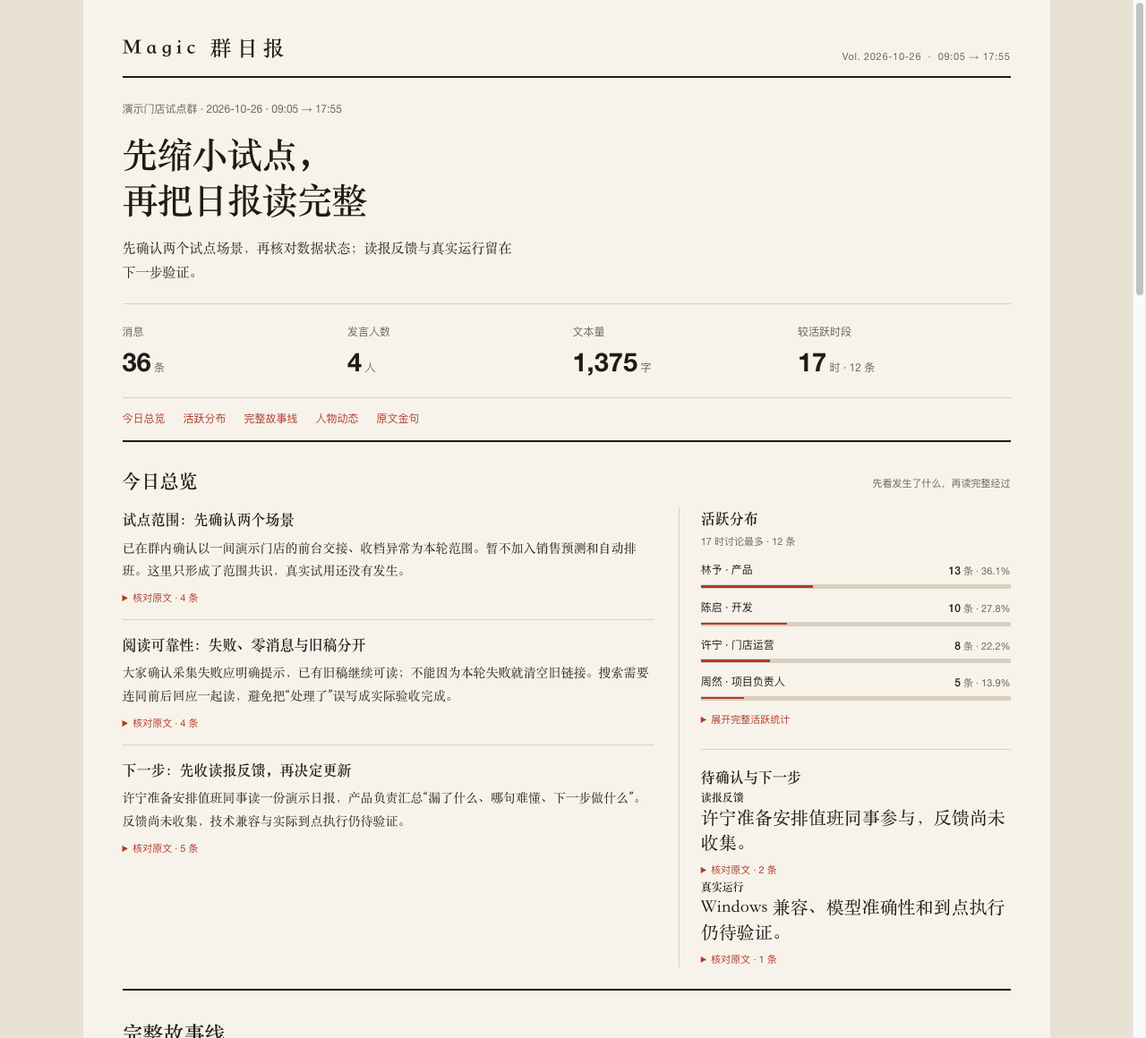
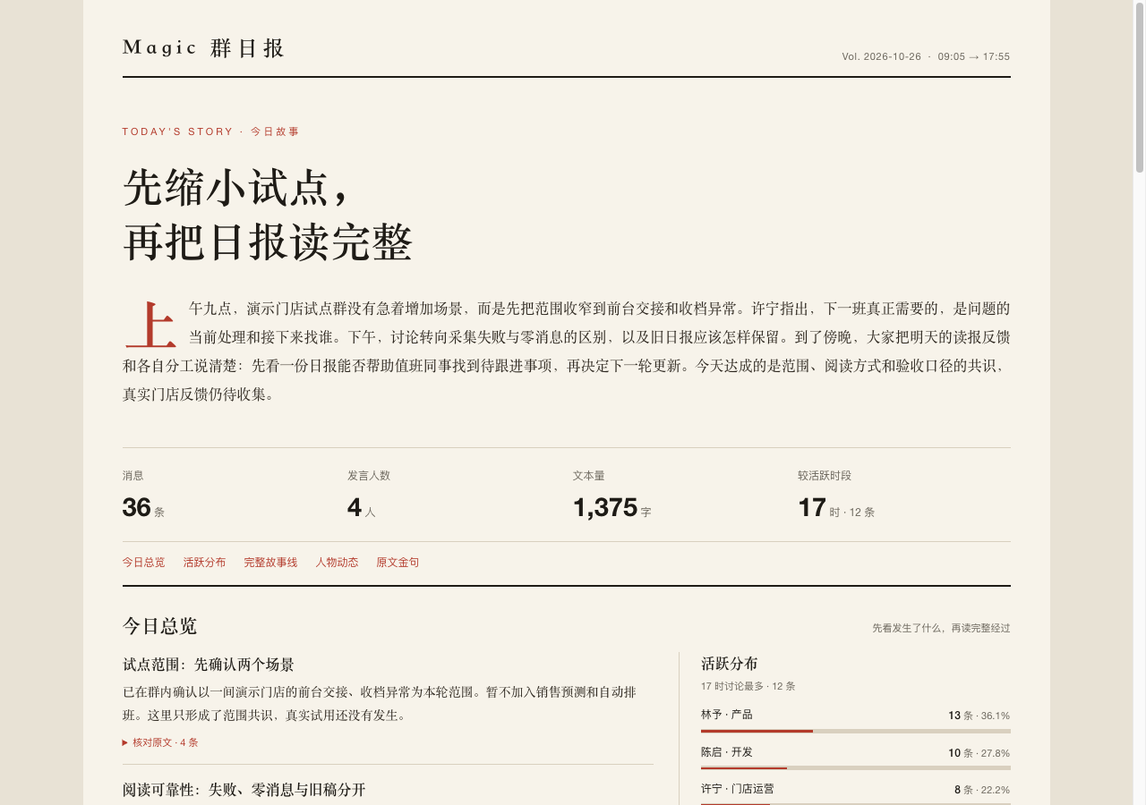
release: restore the approved story opening in rc.8

Changed region(s): [[0.0938, 0.0311, 0.9062, 1.0], [0.9688, 0.2178, 1.0, 0.28], [0.5, 0.7467, 0.5312, 0.7778]]

diff --git a/outputs/version-comparison-2026-10-27/pages/after-report.html b/outputs/version-comparison-2026-10-27/pages/after-report.html
@@ -63,8 +63,8 @@ body{background:var(--bg);color:var(--ink);font-family:var(--font-body);-webkit-
 .footer-attr{font-size:11px;color:var(--muted);margin-top:14px;letter-spacing:.1em;font-family:var(--font-mono)}
 .produced{margin-top:40px;font-size:10px;color:var(--faint);letter-spacing:.2em;text-align:center;font-family:var(--font-mono)}
 
-.page{width:min(1080px,100%);padding:36px 44px 44px}.masthead{padding-bottom:16px}.brand{font-size:24px}.vol{font-size:11px;letter-spacing:.06em}.report-head{padding:26px 0 0}.report-meta{font:12px/1.6 var(--font-mono);color:var(--muted);margin:0 0 14px}.report-head h1{font-family:var(--font-head);font-size:40px;line-height:1.28;font-weight:600;letter-spacing:-.025em;margin-bottom:14px}.report-deck{font-size:15px;line-height:1.8;color:var(--body-text);max-width:62ch}.overview-metrics{display:grid;grid-template-columns:repeat(4,minmax(0,1fr));padding:22px 0;margin-top:22px;border-top:1px solid var(--rule);border-bottom:1px solid var(--rule);gap:14px}.overview-metrics dt{font:12px/1.6 var(--font-mono);color:var(--muted);margin-bottom:6px}.overview-metrics dd{font:600 29px/1.2 var(--font-mono);font-variant-numeric:tabular-nums;color:var(--ink)}.overview-metrics dd small{font-size:12px;font-weight:400;color:var(--muted)}.report-nav{display:flex;gap:20px;flex-wrap:wrap;padding:14px 0;border-bottom:var(--mast-rule);font:12px/1.6 var(--font-mono)}.report-nav a{color:var(--accent);text-decoration:none;text-underline-offset:4px}.report-nav a:hover{text-decoration:underline}.overview{padding:28px 0 24px;border-bottom:var(--mast-rule)}.overview-heading{display:flex;justify-content:space-between;gap:12px;align-items:baseline;margin-bottom:16px}.overview-heading h2{font:600 21px/1.4 var(--font-head)}.overview-heading span{font:11px/1.6 var(--font-mono);color:var(--muted)}.overview-grid{display:grid;grid-template-columns:minmax(0,1.6fr) minmax(0,1fr);gap:28px}.overview-grid aside{border-left:1px solid var(--rule);padding-left:24px}.topic-brief{padding:14px 0;border-bottom:1px solid var(--rule)}.topic-brief:first-child{padding-top:0}.topic-brief:last-child{border-bottom:0}.topic-head{display:flex;gap:10px;justify-content:space-between;align-items:start}.topic-head h3{font:600 16px/1.65 var(--font-head)}.topic-state{white-space:nowrap;font:10px/1.6 var(--font-mono);color:var(--accent);padding-top:3px}.topic-brief>p{font-size:14px;line-height:1.85;color:var(--body-text);margin-top:6px}.distribution h2,.followup h2{font:600 16px/1.6 var(--font-head)}.aside-note{font:11px/1.6 var(--font-mono);color:var(--muted);margin:4px 0 14px}.distribution ul{list-style:none}.distribution li{margin:0 0 12px}.distribution li div{display:flex;gap:8px;justify-content:space-between;font:12px/1.6 var(--font-mono)}.distribution li b{white-space:nowrap;font-variant-numeric:tabular-nums;font-weight:500}.distribution li small{font-size:11px;font-weight:400;color:var(--muted)}meter{display:block;width:100%;height:5px;margin-top:5px;appearance:none;border:0;border-radius:0;background:var(--rule)}meter::-webkit-meter-bar{background:var(--rule);border:0;border-radius:0}meter::-webkit-meter-optimum-value{background:var(--accent);border-radius:0}.activity-detail{font:11px/1.7 var(--font-mono);margin-top:10px}.activity-detail table{border-collapse:collapse;width:100%;margin-top:10px}.activity-detail th,.activity-detail td{padding:5px;text-align:left;border-bottom:1px solid var(--rule);font-weight:400}.activity-detail p{margin-top:8px;color:var(--muted)}.followup{margin-top:24px;padding-top:18px;border-top:1px solid var(--rule)}.followup>p{font-size:12px;line-height:1.85;margin-top:12px;color:var(--body-text)}.followup b{display:block;font-size:12px;font-weight:600;color:var(--ink)}.evidence{font:11px/1.7 var(--font-mono);margin-top:8px}.evidence summary,.activity-detail summary{color:var(--accent);cursor:pointer}.evidence p{margin-top:10px;color:var(--body-text)}.evidence p span{color:var(--muted)}.story-intro{padding-top:30px}.story-intro h2{font:600 23px/1.5 var(--font-head);margin-bottom:12px}.story-intro>p{font-size:14px;line-height:1.9;color:var(--body-text)}.node{padding:28px 0}.sec-title{font-size:18px;letter-spacing:0;padding-top:30px}.theme{font-size:24px}.produced{margin-top:30px;letter-spacing:.05em}a:focus-visible,summary:focus-visible{outline:2px solid var(--accent);outline-offset:3px}::selection{background:#e9d1ba;color:var(--ink)}
-    @media(max-width:680px){.page{padding:22px 20px 30px}.masthead{align-items:start;gap:12px}.brand{font-size:20px}.vol{font-size:11px;max-width:46%;text-align:right}.report-head h1{font-size:31px}.report-deck{font-size:14px}.overview-metrics{gap:12px;grid-template-columns:repeat(2,minmax(0,1fr));padding:18px 0}.overview-metrics dd{font-size:25px}.report-nav{gap:10px 16px}.overview-heading{display:block}.overview-heading span{display:block;margin-top:5px}.overview-grid{grid-template-columns:minmax(0,1fr);gap:20px}.overview-grid aside{border-left:0;border-top:1px solid var(--rule);padding:20px 0 0}.topic-head{display:block}.topic-state{display:inline-block;margin-top:3px}.distribution li div{font-size:13px}.theme{font-size:21px}.node .cast{row-gap:8px}.page p,.page h3{overflow-wrap:anywhere}}
+.page{width:min(1080px,100%);padding:36px 44px 44px}.masthead{padding-bottom:16px}.brand{font-size:24px}.vol{font-size:11px;letter-spacing:.06em}.report-head{padding:52px 0 44px}.report-head .opening{display:flow-root}.report-head .title{font-size:var(--title-size);line-height:1.32;letter-spacing:.01em;margin-bottom:30px}.overview-metrics{display:grid;grid-template-columns:repeat(4,minmax(0,1fr));padding:22px 0;margin-top:0;border-bottom:1px solid var(--rule);gap:14px}.overview-metrics dt{font:12px/1.6 var(--font-mono);color:var(--muted);margin-bottom:6px}.overview-metrics dd{font:600 29px/1.2 var(--font-mono);font-variant-numeric:tabular-nums;color:var(--ink)}.overview-metrics dd small{font-size:12px;font-weight:400;color:var(--muted)}.report-nav{display:flex;gap:20px;flex-wrap:wrap;padding:14px 0;border-bottom:var(--mast-rule);font:12px/1.6 var(--font-mono)}.report-nav a{color:var(--accent);text-decoration:none;text-underline-offset:4px}.report-nav a:hover{text-decoration:underline}.overview{padding:28px 0 24px;border-bottom:var(--mast-rule)}.overview-heading{display:flex;justify-content:space-between;gap:12px;align-items:baseline;margin-bottom:16px}.overview-heading h2{font:600 21px/1.4 var(--font-head)}.overview-heading span{font:11px/1.6 var(--font-mono);color:var(--muted)}.overview-grid{display:grid;grid-template-columns:minmax(0,1.6fr) minmax(0,1fr);gap:28px}.overview-grid aside{border-left:1px solid var(--rule);padding-left:24px}.topic-brief{padding:14px 0;border-bottom:1px solid var(--rule)}.topic-brief:first-child{padding-top:0}.topic-brief:last-child{border-bottom:0}.topic-head{display:flex;gap:10px;justify-content:space-between;align-items:start}.topic-head h3{font:600 16px/1.65 var(--font-head)}.topic-state{white-space:nowrap;font:10px/1.6 var(--font-mono);color:var(--accent);padding-top:3px}.topic-brief>p{font-size:14px;line-height:1.85;color:var(--body-text);margin-top:6px}.distribution h2,.followup h2{font:600 16px/1.6 var(--font-head)}.aside-note{font:11px/1.6 var(--font-mono);color:var(--muted);margin:4px 0 14px}.distribution ul{list-style:none}.distribution li{margin:0 0 12px}.distribution li div{display:flex;gap:8px;justify-content:space-between;font:12px/1.6 var(--font-mono)}.distribution li b{white-space:nowrap;font-variant-numeric:tabular-nums;font-weight:500}.distribution li small{font-size:11px;font-weight:400;color:var(--muted)}meter{display:block;width:100%;height:5px;margin-top:5px;appearance:none;border:0;border-radius:0;background:var(--rule)}meter::-webkit-meter-bar{background:var(--rule);border:0;border-radius:0}meter::-webkit-meter-optimum-value{background:var(--accent);border-radius:0}.activity-detail{font:11px/1.7 var(--font-mono);margin-top:10px}.activity-detail table{border-collapse:collapse;width:100%;margin-top:10px}.activity-detail th,.activity-detail td{padding:5px;text-align:left;border-bottom:1px solid var(--rule);font-weight:400}.activity-detail p{margin-top:8px;color:var(--muted)}.followup{margin-top:24px;padding-top:18px;border-top:1px solid var(--rule)}.followup>p{font-size:12px;line-height:1.85;margin-top:12px;color:var(--body-text)}.followup b{display:block;font-size:12px;font-weight:600;color:var(--ink)}.evidence{font:11px/1.7 var(--font-mono);margin-top:8px}.evidence summary,.activity-detail summary{color:var(--accent);cursor:pointer}.evidence p{margin-top:10px;color:var(--body-text)}.evidence p span{color:var(--muted)}.story-intro{padding-top:30px}.story-intro h2{font:600 23px/1.5 var(--font-head);margin-bottom:12px}.node{padding:28px 0}.sec-title{font-size:18px;letter-spacing:0;padding-top:30px}.theme{font-size:24px}.produced{margin-top:30px;letter-spacing:.05em}a:focus-visible,summary:focus-visible{outline:2px solid var(--accent);outline-offset:3px}::selection{background:#e9d1ba;color:var(--ink)}
+    @media(max-width:680px){.page{padding:22px 20px 30px}.masthead{align-items:start;gap:12px}.brand{font-size:20px}.vol{font-size:11px;max-width:46%;text-align:right}.report-head{padding:28px 0}.report-head .title{font-size:31px;margin-bottom:22px}.report-head .eyebrow{font-size:10px;letter-spacing:.2em;margin-bottom:18px}.report-head .opening{font-size:15px;line-height:2}.overview-metrics{gap:12px;grid-template-columns:repeat(2,minmax(0,1fr));padding:18px 0}.overview-metrics dd{font-size:25px}.report-nav{gap:10px 16px}.overview-heading{display:block}.overview-heading span{display:block;margin-top:5px}.overview-grid{grid-template-columns:minmax(0,1fr);gap:20px}.overview-grid aside{border-left:0;border-top:1px solid var(--rule);padding:20px 0 0}.topic-head{display:block}.topic-state{display:inline-block;margin-top:3px}.distribution li div{font-size:13px}.theme{font-size:21px}.node .cast{row-gap:8px}.page p,.page h3{overflow-wrap:anywhere}}
 
 .member-id{display:block;font-size:11px;color:var(--muted);overflow-wrap:anywhere}.more-topics{margin-top:16px}.more-topics>summary{cursor:pointer;color:var(--accent);font:12px/1.8 var(--font-mono)}.overview-single .distribution{max-width:600px}.overview-single .followup{max-width:72ch}
 </style></head>
@@ -73,8 +73,8 @@ body{background:var(--bg);color:var(--ink);font-family:var(--font-body);-webkit-
     <div class="brand">Magic 群日报</div>
     <div class="vol">Vol. 2026-10-26 &nbsp;·&nbsp; 09:05 → 17:55</div>
   </div>
-  <header class="report-head"><p class="report-meta">演示门店试点群 · 2026-10-26 · 09:05 → 17:55</p><h1>先缩小试点，<br>再把日报读完整</h1><p class="report-deck">先确认两个试点场景，再核对数据状态；读报反馈与真实运行留在下一步验证。</p><dl class="overview-metrics"><div><dt>消息</dt><dd>36<small> 条</small></dd></div><div><dt>发言人数</dt><dd>4<small> 人</small></dd></div><div><dt>文本量</dt><dd>1,375<small> 字</small></dd></div><div><dt>较活跃时段</dt><dd>17<small> 时 · 12 条</small></dd></div></dl><nav class="report-nav" aria-label="日报目录"><a href="#overview">今日总览</a><a href="#activity">活跃分布</a><a href="#story">完整故事线</a><a href="#people">人物动态</a><a href="#quotes">原文金句</a></nav></header><section class="overview" id="overview"><div class="overview-heading"><h2>今日总览</h2><span>先看发生了什么，再读完整经过</span></div><div class="overview-grid"><div class="overview-topics"><article class="topic-brief"><div class="topic-head"><h3>试点范围：先确认两个场景</h3></div><p>已在群内确认以一间演示门店的前台交接、收档异常为本轮范围。暂不加入销售预测和自动排班。这里只形成了范围共识，真实试用还没有发生。</p><details class="evidence"><summary>核对原文 · 4 条</summary><p><span>2026-10-26 09:05:00 · 林予 · 产品</span><br>这周先做一个小范围试点：一间演示门店，只看前台交接和收档异常。今天先把这两个场景说清楚。</p><p><span>2026-10-26 09:12:00 · 林予 · 产品</span><br>那条目需要有问题、当前处理和接下来找谁，先不加销售预测和自动排班。</p><p><span>2026-10-26 09:33:00 · 许宁 · 门店运营</span><br>收到，我先把样例发在群里供大家看；这仍然是演示材料，不代表真实门店已经开始试用。</p><p><span>2026-10-26 09:51:00 · 周然 · 项目负责人</span><br>按这个范围往下做。扩店和其他场景先不排进本周试点，这只是范围决定，不是门店合作结果。</p></details></article><article class="topic-brief"><div class="topic-head"><h3>阅读可靠性：失败、零消息与旧稿分开</h3></div><p>大家确认采集失败应明确提示，已有旧稿继续可读；不能因为本轮失败就清空旧链接。搜索需要连同前后回应一起读，避免把“处理了”误写成实际验收完成。</p><details class="evidence"><summary>核对原文 · 4 条</summary><p><span>2026-10-26 14:10:00 · 陈启 · 开发</span><br>检查采集状态时发现一个容易误读的地方：如果这次取数失败，页面不能写成当天没有消息。</p><p><span>2026-10-26 14:24:00 · 陈启 · 开发</span><br>已有旧稿继续可读，同时提示本次采集失败；后面素材有变化时，再标记这份稿需要更新。</p><p><span>2026-10-26 14:35:00 · 陈启 · 开发</span><br>搜索也沿用同一份冻结归档。关键词周围的回复需要一起读，避免把对方后来的纠正漏掉。</p><p><span>2026-10-26 14:43:00 · 林予 · 产品</span><br>写稿时可以把问题和待确认项整理出来；只在聊天里说过“处理了”，不能自动写成实际验收完成。</p></details></article><article class="topic-brief"><div class="topic-head"><h3>下一步：先收读报反馈，再决定更新</h3></div><p>许宁准备安排值班同事读一份演示日报，产品负责汇总“漏了什么、哪句难懂、下一步做什么”。反馈尚未收集，技术兼容与实际到点执行仍待验证。</p><details class="evidence"><summary>核对原文 · 5 条</summary><p><span>2026-10-26 17:05:00 · 许宁 · 门店运营</span><br>我明天可以安排一个值班同事读演示日报，主要看能不能在两分钟内找到还要跟进的事。</p><p><span>2026-10-26 17:09:00 · 林予 · 产品</span><br>明天先用一份日报，问三个问题：漏了什么、哪一句不好理解、看完接下来会做什么。</p><p><span>2026-10-26 17:39:00 · 许宁 · 门店运营</span><br>我负责收集明天读报的反馈；现在还没有反馈结果，日报里请保留“待验证”。</p><p><span>2026-10-26 17:49:00 · 陈启 · 开发</span><br>技术侧需要继续看真实 Windows 兼容、模型稿件准确性，以及是否实际到点执行；不能拿截图当这些都已完成。</p><p><span>2026-10-26 17:55:00 · 周然 · 项目负责人</span><br>今天先交付可阅读的演示和差异说明。等看完并确认效果，再更新。</p></details></article></div><aside><section class="distribution" id="activity"><h2>活跃分布</h2><p class="aside-note">17 时讨论最多 · 12 条</p><ul><li><div><span>林予 · 产品</span><b>13<small> 条 · 36.1%</small></b></div><meter min="0" max="1" value="0.3611" aria-label="林予 · 产品的发言占比">36.1%</meter></li><li><div><span>陈启 · 开发</span><b>10<small> 条 · 27.8%</small></b></div><meter min="0" max="1" value="0.2778" aria-label="陈启 · 开发的发言占比">27.8%</meter></li><li><div><span>许宁 · 门店运营</span><b>8<small> 条 · 22.2%</small></b></div><meter min="0" max="1" value="0.2222" aria-label="许宁 · 门店运营的发言占比">22.2%</meter></li><li><div><span>周然 · 项目负责人</span><b>5<small> 条 · 13.9%</small></b></div><meter min="0" max="1" value="0.1389" aria-label="周然 · 项目负责人的发言占比">13.9%</meter></li></ul><details class="activity-detail"><summary>展开完整活跃统计</summary><table><thead><tr><th scope="col">成员</th><th scope="col">消息</th><th scope="col">文字</th><th scope="col">占比</th></tr></thead><tbody><tr><th scope="row">林予 · 产品<small class="member-id">demo-lin</small></th><td>13</td><td>491</td><td>36.1%</td></tr><tr><th scope="row">陈启 · 开发<small class="member-id">demo-chen</small></th><td>10</td><td>397</td><td>27.8%</td></tr><tr><th scope="row">许宁 · 门店运营<small class="member-id">demo-xu</small></th><td>8</td><td>331</td><td>22.2%</td></tr><tr><th scope="row">周然 · 项目负责人<small class="member-id">demo-zhou</small></th><td>5</td><td>156</td><td>13.9%</td></tr></tbody></table><p>仅统计本群本次归档消息；发言量不代表贡献或工作完成。</p></details></section><section class="followup"><h2>待确认与下一步</h2><article><p><b>读报反馈</b>许宁准备安排值班同事参与，反馈尚未收集。</p><details class="evidence"><summary>核对原文 · 2 条</summary><p><span>2026-10-26 17:05:00 · 许宁 · 门店运营</span><br>我明天可以安排一个值班同事读演示日报，主要看能不能在两分钟内找到还要跟进的事。</p><p><span>2026-10-26 17:39:00 · 许宁 · 门店运营</span><br>我负责收集明天读报的反馈；现在还没有反馈结果，日报里请保留“待验证”。</p></details></article><article><p><b>真实运行</b>Windows 兼容、模型准确性和到点执行仍待验证。</p><details class="evidence"><summary>核对原文 · 1 条</summary><p><span>2026-10-26 17:49:00 · 陈启 · 开发</span><br>技术侧需要继续看真实 Windows 兼容、模型稿件准确性，以及是否实际到点执行；不能拿截图当这些都已完成。</p></details></article></section></aside></div></section>
-  <section class="story-intro" id="story"><h2>完整故事线</h2><p>上午九点，演示门店试点群没有急着增加场景，而是先把范围收窄到前台交接和收档异常。许宁指出，下一班真正需要的，是问题的当前处理和接下来找谁。下午，讨论转向采集失败与零消息的区别，以及旧日报应该怎样保留。到了傍晚，大家把明天的读报反馈和各自分工说清楚：先看一份日报能否帮助值班同事找到待跟进事项，再决定下一轮更新。今天达成的是范围、阅读方式和验收口径的共识，真实门店反馈仍待收集。</p></section>
+  <header class="report-head lead"><div class="eyebrow">Today&#x27;s Story · 今日故事</div><h1 class="title">先缩小试点，<br>再把日报读完整</h1><p class="opening">上午九点，演示门店试点群没有急着增加场景，而是先把范围收窄到前台交接和收档异常。许宁指出，下一班真正需要的，是问题的当前处理和接下来找谁。下午，讨论转向采集失败与零消息的区别，以及旧日报应该怎样保留。到了傍晚，大家把明天的读报反馈和各自分工说清楚：先看一份日报能否帮助值班同事找到待跟进事项，再决定下一轮更新。今天达成的是范围、阅读方式和验收口径的共识，真实门店反馈仍待收集。</p></header><dl class="overview-metrics"><div><dt>消息</dt><dd>36<small> 条</small></dd></div><div><dt>发言人数</dt><dd>4<small> 人</small></dd></div><div><dt>文本量</dt><dd>1,375<small> 字</small></dd></div><div><dt>较活跃时段</dt><dd>17<small> 时 · 12 条</small></dd></div></dl><nav class="report-nav" aria-label="日报目录"><a href="#overview">今日总览</a><a href="#activity">活跃分布</a><a href="#story">完整故事线</a><a href="#people">人物动态</a><a href="#quotes">原文金句</a></nav><section class="overview" id="overview"><div class="overview-heading"><h2>今日总览</h2><span>先看发生了什么，再读完整经过</span></div><div class="overview-grid"><div class="overview-topics"><article class="topic-brief"><div class="topic-head"><h3>试点范围：先确认两个场景</h3></div><p>已在群内确认以一间演示门店的前台交接、收档异常为本轮范围。暂不加入销售预测和自动排班。这里只形成了范围共识，真实试用还没有发生。</p><details class="evidence"><summary>核对原文 · 4 条</summary><p><span>2026-10-26 09:05:00 · 林予 · 产品</span><br>这周先做一个小范围试点：一间演示门店，只看前台交接和收档异常。今天先把这两个场景说清楚。</p><p><span>2026-10-26 09:12:00 · 林予 · 产品</span><br>那条目需要有问题、当前处理和接下来找谁，先不加销售预测和自动排班。</p><p><span>2026-10-26 09:33:00 · 许宁 · 门店运营</span><br>收到，我先把样例发在群里供大家看；这仍然是演示材料，不代表真实门店已经开始试用。</p><p><span>2026-10-26 09:51:00 · 周然 · 项目负责人</span><br>按这个范围往下做。扩店和其他场景先不排进本周试点，这只是范围决定，不是门店合作结果。</p></details></article><article class="topic-brief"><div class="topic-head"><h3>阅读可靠性：失败、零消息与旧稿分开</h3></div><p>大家确认采集失败应明确提示，已有旧稿继续可读；不能因为本轮失败就清空旧链接。搜索需要连同前后回应一起读，避免把“处理了”误写成实际验收完成。</p><details class="evidence"><summary>核对原文 · 4 条</summary><p><span>2026-10-26 14:10:00 · 陈启 · 开发</span><br>检查采集状态时发现一个容易误读的地方：如果这次取数失败，页面不能写成当天没有消息。</p><p><span>2026-10-26 14:24:00 · 陈启 · 开发</span><br>已有旧稿继续可读，同时提示本次采集失败；后面素材有变化时，再标记这份稿需要更新。</p><p><span>2026-10-26 14:35:00 · 陈启 · 开发</span><br>搜索也沿用同一份冻结归档。关键词周围的回复需要一起读，避免把对方后来的纠正漏掉。</p><p><span>2026-10-26 14:43:00 · 林予 · 产品</span><br>写稿时可以把问题和待确认项整理出来；只在聊天里说过“处理了”，不能自动写成实际验收完成。</p></details></article><article class="topic-brief"><div class="topic-head"><h3>下一步：先收读报反馈，再决定更新</h3></div><p>许宁准备安排值班同事读一份演示日报，产品负责汇总“漏了什么、哪句难懂、下一步做什么”。反馈尚未收集，技术兼容与实际到点执行仍待验证。</p><details class="evidence"><summary>核对原文 · 5 条</summary><p><span>2026-10-26 17:05:00 · 许宁 · 门店运营</span><br>我明天可以安排一个值班同事读演示日报，主要看能不能在两分钟内找到还要跟进的事。</p><p><span>2026-10-26 17:09:00 · 林予 · 产品</span><br>明天先用一份日报，问三个问题：漏了什么、哪一句不好理解、看完接下来会做什么。</p><p><span>2026-10-26 17:39:00 · 许宁 · 门店运营</span><br>我负责收集明天读报的反馈；现在还没有反馈结果，日报里请保留“待验证”。</p><p><span>2026-10-26 17:49:00 · 陈启 · 开发</span><br>技术侧需要继续看真实 Windows 兼容、模型稿件准确性，以及是否实际到点执行；不能拿截图当这些都已完成。</p><p><span>2026-10-26 17:55:00 · 周然 · 项目负责人</span><br>今天先交付可阅读的演示和差异说明。等看完并确认效果，再更新。</p></details></article></div><aside><section class="distribution" id="activity"><h2>活跃分布</h2><p class="aside-note">17 时讨论最多 · 12 条</p><ul><li><div><span>林予 · 产品</span><b>13<small> 条 · 36.1%</small></b></div><meter min="0" max="1" value="0.3611" aria-label="林予 · 产品的发言占比">36.1%</meter></li><li><div><span>陈启 · 开发</span><b>10<small> 条 · 27.8%</small></b></div><meter min="0" max="1" value="0.2778" aria-label="陈启 · 开发的发言占比">27.8%</meter></li><li><div><span>许宁 · 门店运营</span><b>8<small> 条 · 22.2%</small></b></div><meter min="0" max="1" value="0.2222" aria-label="许宁 · 门店运营的发言占比">22.2%</meter></li><li><div><span>周然 · 项目负责人</span><b>5<small> 条 · 13.9%</small></b></div><meter min="0" max="1" value="0.1389" aria-label="周然 · 项目负责人的发言占比">13.9%</meter></li></ul><details class="activity-detail"><summary>展开完整活跃统计</summary><table><thead><tr><th scope="col">成员</th><th scope="col">消息</th><th scope="col">文字</th><th scope="col">占比</th></tr></thead><tbody><tr><th scope="row">林予 · 产品<small class="member-id">demo-lin</small></th><td>13</td><td>491</td><td>36.1%</td></tr><tr><th scope="row">陈启 · 开发<small class="member-id">demo-chen</small></th><td>10</td><td>397</td><td>27.8%</td></tr><tr><th scope="row">许宁 · 门店运营<small class="member-id">demo-xu</small></th><td>8</td><td>331</td><td>22.2%</td></tr><tr><th scope="row">周然 · 项目负责人<small class="member-id">demo-zhou</small></th><td>5</td><td>156</td><td>13.9%</td></tr></tbody></table><p>仅统计本群本次归档消息；发言量不代表贡献或工作完成。</p></details></section><section class="followup"><h2>待确认与下一步</h2><article><p><b>读报反馈</b>许宁准备安排值班同事参与，反馈尚未收集。</p><details class="evidence"><summary>核对原文 · 2 条</summary><p><span>2026-10-26 17:05:00 · 许宁 · 门店运营</span><br>我明天可以安排一个值班同事读演示日报，主要看能不能在两分钟内找到还要跟进的事。</p><p><span>2026-10-26 17:39:00 · 许宁 · 门店运营</span><br>我负责收集明天读报的反馈；现在还没有反馈结果，日报里请保留“待验证”。</p></details></article><article><p><b>真实运行</b>Windows 兼容、模型准确性和到点执行仍待验证。</p><details class="evidence"><summary>核对原文 · 1 条</summary><p><span>2026-10-26 17:49:00 · 陈启 · 开发</span><br>技术侧需要继续看真实 Windows 兼容、模型稿件准确性，以及是否实际到点执行；不能拿截图当这些都已完成。</p></details></article></section></aside></div></section>
+  <section class="story-intro" id="story"><h2>完整故事线</h2></section>
   <section class="timeline" id="review-story">
     <article class="node">
       <div class="no">01</div>

diff --git a/skills/wechat-group-daily/scripts/assets/report-layout.css b/skills/wechat-group-daily/scripts/assets/report-layout.css
@@ -1,4 +1,4 @@
-.page{width:min(1080px,100%);padding:36px 44px 44px}.masthead{padding-bottom:16px}.brand{font-size:24px}.vol{font-size:11px;letter-spacing:.06em}.report-head{padding:26px 0 0}.report-meta{font:12px/1.6 var(--font-mono);color:var(--muted);margin:0 0 14px}.report-head h1{font-family:var(--font-head);font-size:40px;line-height:1.28;font-weight:600;letter-spacing:-.025em;margin-bottom:14px}.report-deck{font-size:15px;line-height:1.8;color:var(--body-text);max-width:62ch}.overview-metrics{display:grid;grid-template-columns:repeat(4,minmax(0,1fr));padding:22px 0;margin-top:22px;border-top:1px solid var(--rule);border-bottom:1px solid var(--rule);gap:14px}.overview-metrics dt{font:12px/1.6 var(--font-mono);color:var(--muted);margin-bottom:6px}.overview-metrics dd{font:600 29px/1.2 var(--font-mono);font-variant-numeric:tabular-nums;color:var(--ink)}.overview-metrics dd small{font-size:12px;font-weight:400;color:var(--muted)}.report-nav{display:flex;gap:20px;flex-wrap:wrap;padding:14px 0;border-bottom:var(--mast-rule);font:12px/1.6 var(--font-mono)}.report-nav a{color:var(--accent);text-decoration:none;text-underline-offset:4px}.report-nav a:hover{text-decoration:underline}.overview{padding:28px 0 24px;border-bottom:var(--mast-rule)}.overview-heading{display:flex;justify-content:space-between;gap:12px;align-items:baseline;margin-bottom:16px}.overview-heading h2{font:600 21px/1.4 var(--font-head)}.overview-heading span{font:11px/1.6 var(--font-mono);color:var(--muted)}.overview-grid{display:grid;grid-template-columns:minmax(0,1.6fr) minmax(0,1fr);gap:28px}.overview-grid aside{border-left:1px solid var(--rule);padding-left:24px}.topic-brief{padding:14px 0;border-bottom:1px solid var(--rule)}.topic-brief:first-child{padding-top:0}.topic-brief:last-child{border-bottom:0}.topic-head{display:flex;gap:10px;justify-content:space-between;align-items:start}.topic-head h3{font:600 16px/1.65 var(--font-head)}.topic-state{white-space:nowrap;font:10px/1.6 var(--font-mono);color:var(--accent);padding-top:3px}.topic-brief>p{font-size:14px;line-height:1.85;color:var(--body-text);margin-top:6px}.distribution h2,.followup h2{font:600 16px/1.6 var(--font-head)}.aside-note{font:11px/1.6 var(--font-mono);color:var(--muted);margin:4px 0 14px}.distribution ul{list-style:none}.distribution li{margin:0 0 12px}.distribution li div{display:flex;gap:8px;justify-content:space-between;font:12px/1.6 var(--font-mono)}.distribution li b{white-space:nowrap;font-variant-numeric:tabular-nums;font-weight:500}.distribution li small{font-size:11px;font-weight:400;color:var(--muted)}meter{display:block;width:100%;height:5px;margin-top:5px;appearance:none;border:0;border-radius:0;background:var(--rule)}meter::-webkit-meter-bar{background:var(--rule);border:0;border-radius:0}meter::-webkit-meter-optimum-value{background:var(--accent);border-radius:0}.activity-detail{font:11px/1.7 var(--font-mono);margin-top:10px}.activity-detail table{border-collapse:collapse;width:100%;margin-top:10px}.activity-detail th,.activity-detail td{padding:5px;text-align:left;border-bottom:1px solid var(--rule);font-weight:400}.activity-detail p{margin-top:8px;color:var(--muted)}.followup{margin-top:24px;padding-top:18px;border-top:1px solid var(--rule)}.followup>p{font-size:12px;line-height:1.85;margin-top:12px;color:var(--body-text)}.followup b{display:block;font-size:12px;font-weight:600;color:var(--ink)}.evidence{font:11px/1.7 var(--font-mono);margin-top:8px}.evidence summary,.activity-detail summary{color:var(--accent);cursor:pointer}.evidence p{margin-top:10px;color:var(--body-text)}.evidence p span{color:var(--muted)}.story-intro{padding-top:30px}.story-intro h2{font:600 23px/1.5 var(--font-head);margin-bottom:12px}.story-intro>p{font-size:14px;line-height:1.9;color:var(--body-text)}.node{padding:28px 0}.sec-title{font-size:18px;letter-spacing:0;padding-top:30px}.theme{font-size:24px}.produced{margin-top:30px;letter-spacing:.05em}a:focus-visible,summary:focus-visible{outline:2px solid var(--accent);outline-offset:3px}::selection{background:#e9d1ba;color:var(--ink)}
-    @media(max-width:680px){.page{padding:22px 20px 30px}.masthead{align-items:start;gap:12px}.brand{font-size:20px}.vol{font-size:11px;max-width:46%;text-align:right}.report-head h1{font-size:31px}.report-deck{font-size:14px}.overview-metrics{gap:12px;grid-template-columns:repeat(2,minmax(0,1fr));padding:18px 0}.overview-metrics dd{font-size:25px}.report-nav{gap:10px 16px}.overview-heading{display:block}.overview-heading span{display:block;margin-top:5px}.overview-grid{grid-template-columns:minmax(0,1fr);gap:20px}.overview-grid aside{border-left:0;border-top:1px solid var(--rule);padding:20px 0 0}.topic-head{display:block}.topic-state{display:inline-block;margin-top:3px}.distribution li div{font-size:13px}.theme{font-size:21px}.node .cast{row-gap:8px}.page p,.page h3{overflow-wrap:anywhere}}
+.page{width:min(1080px,100%);padding:36px 44px 44px}.masthead{padding-bottom:16px}.brand{font-size:24px}.vol{font-size:11px;letter-spacing:.06em}.report-head{padding:52px 0 44px}.report-head .opening{display:flow-root}.report-head .title{font-size:var(--title-size);line-height:1.32;letter-spacing:.01em;margin-bottom:30px}.overview-metrics{display:grid;grid-template-columns:repeat(4,minmax(0,1fr));padding:22px 0;margin-top:0;border-bottom:1px solid var(--rule);gap:14px}.overview-metrics dt{font:12px/1.6 var(--font-mono);color:var(--muted);margin-bottom:6px}.overview-metrics dd{font:600 29px/1.2 var(--font-mono);font-variant-numeric:tabular-nums;color:var(--ink)}.overview-metrics dd small{font-size:12px;font-weight:400;color:var(--muted)}.report-nav{display:flex;gap:20px;flex-wrap:wrap;padding:14px 0;border-bottom:var(--mast-rule);font:12px/1.6 var(--font-mono)}.report-nav a{color:var(--accent);text-decoration:none;text-underline-offset:4px}.report-nav a:hover{text-decoration:underline}.overview{padding:28px 0 24px;border-bottom:var(--mast-rule)}.overview-heading{display:flex;justify-content:space-between;gap:12px;align-items:baseline;margin-bottom:16px}.overview-heading h2{font:600 21px/1.4 var(--font-head)}.overview-heading span{font:11px/1.6 var(--font-mono);color:var(--muted)}.overview-grid{display:grid;grid-template-columns:minmax(0,1.6fr) minmax(0,1fr);gap:28px}.overview-grid aside{border-left:1px solid var(--rule);padding-left:24px}.topic-brief{padding:14px 0;border-bottom:1px solid var(--rule)}.topic-brief:first-child{padding-top:0}.topic-brief:last-child{border-bottom:0}.topic-head{display:flex;gap:10px;justify-content:space-between;align-items:start}.topic-head h3{font:600 16px/1.65 var(--font-head)}.topic-state{white-space:nowrap;font:10px/1.6 var(--font-mono);color:var(--accent);padding-top:3px}.topic-brief>p{font-size:14px;line-height:1.85;color:var(--body-text);margin-top:6px}.distribution h2,.followup h2{font:600 16px/1.6 var(--font-head)}.aside-note{font:11px/1.6 var(--font-mono);color:var(--muted);margin:4px 0 14px}.distribution ul{list-style:none}.distribution li{margin:0 0 12px}.distribution li div{display:flex;gap:8px;justify-content:space-between;font:12px/1.6 var(--font-mono)}.distribution li b{white-space:nowrap;font-variant-numeric:tabular-nums;font-weight:500}.distribution li small{font-size:11px;font-weight:400;color:var(--muted)}meter{display:block;width:100%;height:5px;margin-top:5px;appearance:none;border:0;border-radius:0;background:var(--rule)}meter::-webkit-meter-bar{background:var(--rule);border:0;border-radius:0}meter::-webkit-meter-optimum-value{background:var(--accent);border-radius:0}.activity-detail{font:11px/1.7 var(--font-mono);margin-top:10px}.activity-detail table{border-collapse:collapse;width:100%;margin-top:10px}.activity-detail th,.activity-detail td{padding:5px;text-align:left;border-bottom:1px solid var(--rule);font-weight:400}.activity-detail p{margin-top:8px;color:var(--muted)}.followup{margin-top:24px;padding-top:18px;border-top:1px solid var(--rule)}.followup>p{font-size:12px;line-height:1.85;margin-top:12px;color:var(--body-text)}.followup b{display:block;font-size:12px;font-weight:600;color:var(--ink)}.evidence{font:11px/1.7 var(--font-mono);margin-top:8px}.evidence summary,.activity-detail summary{color:var(--accent);cursor:pointer}.evidence p{margin-top:10px;color:var(--body-text)}.evidence p span{color:var(--muted)}.story-intro{padding-top:30px}.story-intro h2{font:600 23px/1.5 var(--font-head);margin-bottom:12px}.node{padding:28px 0}.sec-title{font-size:18px;letter-spacing:0;padding-top:30px}.theme{font-size:24px}.produced{margin-top:30px;letter-spacing:.05em}a:focus-visible,summary:focus-visible{outline:2px solid var(--accent);outline-offset:3px}::selection{background:#e9d1ba;color:var(--ink)}
+    @media(max-width:680px){.page{padding:22px 20px 30px}.masthead{align-items:start;gap:12px}.brand{font-size:20px}.vol{font-size:11px;max-width:46%;text-align:right}.report-head{padding:28px 0}.report-head .title{font-size:31px;margin-bottom:22px}.report-head .eyebrow{font-size:10px;letter-spacing:.2em;margin-bottom:18px}.report-head .opening{font-size:15px;line-height:2}.overview-metrics{gap:12px;grid-template-columns:repeat(2,minmax(0,1fr));padding:18px 0}.overview-metrics dd{font-size:25px}.report-nav{gap:10px 16px}.overview-heading{display:block}.overview-heading span{display:block;margin-top:5px}.overview-grid{grid-template-columns:minmax(0,1fr);gap:20px}.overview-grid aside{border-left:0;border-top:1px solid var(--rule);padding:20px 0 0}.topic-head{display:block}.topic-state{display:inline-block;margin-top:3px}.distribution li div{font-size:13px}.theme{font-size:21px}.node .cast{row-gap:8px}.page p,.page h3{overflow-wrap:anywhere}}
 
 .member-id{display:block;font-size:11px;color:var(--muted);overflow-wrap:anywhere}.more-topics{margin-top:16px}.more-topics>summary{cursor:pointer;color:var(--accent);font:12px/1.8 var(--font-mono)}.overview-single .distribution{max-width:600px}.overview-single .followup{max-width:72ch}

diff --git a/skills/wechat-group-daily/scripts/lib/wechat_data/report_layout.py b/skills/wechat-group-daily/scripts/lib/wechat_data/report_layout.py
@@ -35,7 +35,8 @@ def render_front(story, content, activity):
     topics = content.get('topics') or []
     followups = content.get('followups') or []
     summary = (content.get('overview') or {}).get('summary')
-    deck = f'<p class="report-deck">{esc(summary)}</p>' if summary else ''
+    opening = story.get('opening') or summary
+    intro = f'<p class="opening">{esc(opening)}</p>' if opening else ''
     nav = []
     if topics or participants or followups:
         nav.append(('overview', '今日总览'))
@@ -47,7 +48,7 @@ def render_front(story, content, activity):
     if content.get('quotes'):
         nav.append(('quotes', '原文金句'))
     links = ''.join(f'<a href="#{key}">{label}</a>' for key, label in nav)
-    hero = f'<header class="report-head"><p class="report-meta">{esc(story.get("group_name"))} · {esc(story.get("date"))} · {esc(story.get("time_range"))}</p><h1>{esc(story.get("lead_title")).replace(chr(10), "<br>")}</h1>{deck}{metrics}<nav class="report-nav" aria-label="日报目录">{links}</nav></header>'
+    hero = f'<header class="report-head lead"><div class="eyebrow">Today&#x27;s Story · 今日故事</div><h1 class="title">{esc(story.get("lead_title")).replace(chr(10), "<br>")}</h1>{intro}</header>{metrics}<nav class="report-nav" aria-label="日报目录">{links}</nav>'
     topic_rows = ''.join(topic(row) for row in topics[:3])
     if len(topics) > 3:
         topic_rows += f'<details class="more-topics"><summary>更多话题 · {len(topics) - 3} 条</summary>{"".join(topic(row) for row in topics[3:])}</details>'

diff --git a/skills/wechat-group-daily/scripts/tools/render_daily.py b/skills/wechat-group-daily/scripts/tools/render_daily.py
@@ -244,7 +244,7 @@ def render_html(story: dict, theme: str = "magazine", accent: str | None = None,
     <div class="vol">Vol. {esc(story.get("date",""))} &nbsp;·&nbsp; {esc(story.get("time_range",""))}</div>
   </div>
   {front}
-  <section class="story-intro" id="story"><h2>完整故事线</h2><p>{esc(story.get('opening', ''))}</p></section>
+  <section class="story-intro" id="story"><h2>完整故事线</h2></section>
   <section class="timeline">{timeline}</section>
   {hl_html}
   {sops_html}

diff --git a/docs/dev-log.md b/docs/dev-log.md
@@ -273,3 +273,20 @@
 
 - Published v1.3.0-rc.7 from clean source f52a438865d16ec313019c28c711e49ed094aca1, including the separately committed Windows fix. GitHub readback confirms non-draft prerelease and all three assets uploaded; source push succeeded. Repository license API recognizes MIT.
 - Delivered ZIP: 58 files, 294977 bytes, SHA-256 c43eb4572fc413e5ee3acb31ff83232c5ba1a76f305cf7f8884e0b2152dc222a, identical to GitHub's asset digest. Clean-source receipt and actual delivered ZIP extraction/provenance recheck passed. All legal texts, third-party licenses and --reopen source are present. Previous tags/assets retained; no personal runtime state was uploaded. This follow-up only records release evidence.
+
+## 2026-10-27 — Restore the editorial opening and remove repeated report time
+
+- Request: follow the annotated old/new screenshots, retain the former Today's Story opening and remove the repeated date/time line above the new title. Inspected both supplied images and the actual old/new renderers before editing; this is a local refinement of the approved report, not a new visual direction.
+- Change: restore the original section label, large serif headline and drop-cap opening ahead of the measured overview. Move the existing opening text to that position, remove its duplicate before the timeline and omit the separate summary deck. The date and actual time range remain in the masthead once; group identity remains in the document title and footer. The summary stays available to the existing reader analysis API. Preserve topics, statistics, source disclosures, historical reports and collection behavior.
+- Visual: desktop 1280px, intermediate 768px and mobile 390px actual Ego rendering have no horizontal overflow; title is 46px/31px, the original drop cap is retained, opening and full header time range appear once, and statistics follow the opening. Inspected desktop/mobile screenshots in outputs/version-comparison-2026-10-27/shots/story-opening-*.png; structured observations are in story-opening-checks.json. The user-requested section label overrides the generic Skill preference against eyebrows.
+- Validation: regenerated both synthetic preview reports using their actual renderers and checkers; all 8 backend analysis/public report checks and the static release/provenance/reference check passed. Impeccable manual detector returned no findings; whitespace passed. No tests were added for the reversible typography change. Existing GitHub rc.7, release assets, version, real configuration/history and host tasks remain unchanged; the local preview uses the revised production renderer.
+- Tooling: Ego required host access after the default sandbox could not start its macOS service; browser task 58 completed and closed. Ego advertised an optional update, which was not installed. Impeccable noted legacy PRODUCT.md schema; no unrelated schema migration was performed.
+
+## 2026-10-27 — Integrate the approved opening and prepare rc.8 publication
+
+- Request: the user accepted the revised opening and authorized integration, testing, GitHub and installation package update. Promote the reviewed renderer/CSS without another visual redesign; set rc.8 metadata and update README screenshot/download/verification links to the same version.
+- Scope: Today's Story label, large serif title, original drop-cap opening before overview; masthead is the single date/range location, opening no longer repeats before the timeline. Retain reader/API analysis summary, topic/activity/source sections, contextual search, group cards, rc.7 feedback fixes and all legal assets. No configuration/history/host task changes; existing generated history is not batch rewritten.
+- Validation: full public suite 86 checks (85 pass, optional Pillow skip); actual CLI/Python HTTP/Ego analysis browser check passed at 1280/390px, including filters, context, report overview, evidence and keyboard details. The already-approved 1280/768/390 opening captures remain valid; copied current actual report shots into tests/frontend/evidence/rc8-opening. Node syntax, static release/provenance/privacy/reference checks, 14 document link checks and whitespace pass. No extra implementation-mirroring tests added for typography. Existing non-failing synthetic SQLite ResourceWarning remains; Windows/model/PNG/scheduler acceptance stays separate.
+- Distribution: no new runtime dependency or package file; the explicit 58-file inventory retains MIT, disclaimer, notices, three upstream licenses and complete provenance. Commit reviewed source, build a clean-source versioned ZIP, verify delivered bytes, push without force and publish a new prerelease with receipt/checksum; preserve prior releases. Final source and GitHub asset readback are recorded in docs/verification/1.3.0-rc.8.md after upload.
+
+- Final visual boundary: actual browser screenshot of a one-sentence opening showed the floated initial touching the separator, which the long approved opening did not expose. Added a scoped flow-root to the opening paragraph; this contains its drop cap without altering the approved long text layout. Regenerated the actual preview and repeated the real API browser check after this CSS-only fix; no collection/API/semantic behavior changed. Final screenshots and static mechanical scan belong to the delivered candidate.

diff --git a/README.md b/README.md
@@ -8,11 +8,11 @@
 
 选择多个微信群，由你 Windows 电脑上的 WorkBuddy 在选定时间每天整理成独立日报；按日期看多群，按群看历史，也能组合搜索。配置、密钥和归档文件保存在本机的包外目录。
 
-**Windows · WorkBuddy · 1.3.0-rc.6 Windows 测试候选**
+**Windows · WorkBuddy · 1.3.0-rc.8 Windows 测试候选**
 
-[复制安装提示词](#安装与更新) · [下载候选 ZIP](https://github.com/fxbillu/Magic-wechat-group-daily-skills/releases/tag/v1.3.0-rc.6) · [Windows 试用说明](skills/wechat-group-daily/references/windows-acceptance.md)
+[复制安装提示词](#安装与更新) · [下载候选 ZIP](https://github.com/fxbillu/Magic-wechat-group-daily-skills/releases/tag/v1.3.0-rc.8) · [Windows 试用说明](skills/wechat-group-daily/references/windows-acceptance.md)
 
-新版先看实算活跃统计、主要话题和待确认事项，再读完整故事线；人物动态、原文金句和搜索前后文都可核对来源。沿用每日一次的接续窗口，保留原配置和历史日报。
+新版保留「今日故事」的大标题与首字下沉导语，随后是实算活跃统计、主要话题和待确认事项，再读完整故事线；日期和实际时间范围只在报头显示一次。人物动态、原文金句和搜索前后文都可核对来源，沿用原配置与历史。
 
 ## 为什么做这个项目
 
@@ -26,9 +26,9 @@
 
 *截图来自程序的合成数据浏览检查，用于展示界面；不是真实微信群或 Windows 运行证明。可点击查看原图。*
 
-<a href="assets/readme/overview-first.png"><img src="assets/readme/overview-first.png" width="100%" alt="新版日报先看活跃统计、主要话题与待确认事项，再读完整故事；全部为合成示例。"></a>
+<a href="assets/readme/overview-first.png"><img src="assets/readme/overview-first.png" width="100%" alt="rc.8 日报恢复今日故事、大标题和首字下沉导语，随后展示活跃统计与主要话题；全部为合成示例。"></a>
 
-*rc.6 总览前置成稿，由正式渲染器生成，示例人员与群聊均为虚构。*
+*rc.8 今日故事开场与总览，由正式渲染器生成，示例人员与群聊均为虚构。*
 
 | 日常要做的事 | 在这里怎么完成 |
 | --- | --- |
@@ -54,7 +54,7 @@ https://github.com/fxbillu/Magic-wechat-group-daily-skills
 按照仓库说明加载微信群日报 Skill，带我完成初始化、生成首份日报，并配置每日任务。已有安装则更新，保留原配置和历史。
 ```
 
-也可以下载 [候选 ZIP](https://github.com/fxbillu/Magic-wechat-group-daily-skills/releases/tag/v1.3.0-rc.7) 导入 WorkBuddy。
+也可以下载 [候选 ZIP](https://github.com/fxbillu/Magic-wechat-group-daily-skills/releases/tag/v1.3.0-rc.8) 导入 WorkBuddy。
 
 ## 桌面快捷方式
 
@@ -80,7 +80,7 @@ Windows 初始化保存配置时，会创建带报纸图标的 **Magic 群日报
 
 ## 当前验证范围
 
-开发侧已完成必要修复与前后端联调。页面及真实 Python API 到浏览器联调结果见 [rc.6 验证记录](docs/verification/1.3.0-rc.6.md)；本次来源、许可、分发检查及整合的 Windows 修复验证见 [rc.7 记录](docs/verification/1.3.0-rc.7.md)。当前解释器的一项可选 Pillow 检查跳过。
+本轮开场、响应式、公共检查与安装包结果见 [rc.8 验证记录](docs/verification/1.3.0-rc.8.md)。此前完整页面联调见 [rc.6 记录](docs/verification/1.3.0-rc.6.md)，来源、许可和 Windows 修复验证见 [rc.7 记录](docs/verification/1.3.0-rc.7.md)。当前解释器的一项可选 Pillow 检查跳过。
 
 默认跳过不需要的 FTS 库，仅额外尝试群内名片所需的可选联系人索引，失败回退原名称；保留 rc.3 的核心库解密与恢复能力。程序按核心库结果判断解密成功，并支持跨盘目录和中断临时文件回收。数据库层仍按共享消息分片解密，归档仅保存所选群的指定日期；旧版无归属临时文件和历史日报不会自动删除。
 

diff --git a/docs/verification/1.3.0-rc.8.md b/docs/verification/1.3.0-rc.8.md
@@ -1,0 +1,29 @@
+# 1.3.0-rc.8 验证记录
+
+日期：2026-10-27（Asia/Shanghai）。范围：用户确认的「今日故事」开场整合、现有功能回归与 GitHub／安装包发布。
+
+## 交付行为
+
+- 复用原衬线大标题和首字下沉导语；完整导语只出现一次，后接实算统计、主要话题、参与分布与待确认事项。
+- 导语建立自己的浮动容纳区，一句话的短导语也不会让下沉首字碰到下方分隔线；确认的长导语不改变排版。
+- 移除标题上方重复的日期和时间行；报头右侧仍显示真实日期与范围。群身份保留在文档标题和页尾。
+- 完整故事线、上下文搜索、群内名片、人物／话题／原文金句，以及 rc.7 补报和跨午夜统计修复保持可用。
+- 安装包保持 58 个显式文件，保留 MIT、免责声明、第三方许可及全部来源分类；不读取或迁移个人配置、密钥和历史。已有历史 HTML 不批量改写，新生成的日报使用确认后的开头。
+
+## 检查与证据
+
+| 检查 | 结果／证据 |
+|---|---|
+| 真实渲染器生成的新旧合成预览及验稿 | 通过，两份稿件分别由实际渲染器和检查器处理 |
+| 开场的实际视觉检查 | 1280、768、390px 均无横向溢出，导语和完整报头范围各一次；标题 46px／31px，首字下沉保留，统计位于导语后；[结构化观察](../../outputs/version-comparison-2026-10-27/shots/story-opening-checks.json)、[桌面](../../outputs/version-comparison-2026-10-27/shots/story-opening-1280.png)、[手机](../../outputs/version-comparison-2026-10-27/shots/story-opening-390.png) |
+| 后端分析与实际报告 CLI 检查 | 8 项通过（开场确认轮），涵盖分析来源、旧稿兼容及接续窗口 |
+| `python3 -B -m unittest discover -s tests -p 'test_*.py' -q` | 86 项，85 通过，1 项可选 Pillow 跳过；有同此前一致的非失败 SQLite ResourceWarning |
+| `python3 -B -m unittest discover -s tests/frontend -p 'test_analysis_api.py' -q` | 1 项通过；实际 CLI → Python HTTP → Ego 浏览器，1280／390px 的上下文、人物筛选、分析来源、统计、报告、键盘展开均通过；[本轮实际报告桌面图](../../tests/frontend/evidence/rc8-opening/report-1280.png)、[手机图](../../tests/frontend/evidence/rc8-opening/report-390.png) |
+| Node 前端语法、静态包清单／来源／隐私／引用检查 | 通过 |
+| Impeccable 机械检查 | 确认稿及本轮短导语容纳修正均无发现，没有重新选择视觉方案 |
+
+没有新增为排版实现本身服务的测试；使用现有公共边界检查和实际浏览器观察。以上不是 Windows 真实微信取数、模型内容质量、PNG 或定时运行的新验收。
+
+## 分发
+
+从提交后的干净源码构建新的 rc.8 ZIP，验证解压内容和法律文件；发布 ZIP、构建回执及 SHA-256。最终提交、文件大小、摘要和 GitHub 回读在发布后补记。既有 rc.7 及更早版本保留。

diff --git a/DESIGN.md b/DESIGN.md
@@ -42,6 +42,6 @@
 
 ## 总览前置（2026-10-27 已确认）
 
-日报顺序为标题与简短总述 → 实算规模和活跃时段 → 主要话题、参与分布和待确认事项 → 完整故事线 → 人物动态与原文金句。前面直接显示三个主要话题，更多话题、完整活跃表和原文来源按需展开；不在末尾重复一份总览。人物动态存在时，旧人物高光作为兼容回退，避免两份人物列表并列。
+日报顺序为「今日故事」大标题与首字下沉的完整导语 → 实算规模和活跃时段 → 主要话题、参与分布和待确认事项 → 完整故事线 → 人物动态与原文金句。按用户标注恢复旧版开场，日期和实际时间范围只在报头右侧显示一次；导语不在故事线前重复，不再叠放另一段简短总述。前面直接显示三个主要话题，更多话题、完整活跃表和原文来源按需展开；不在末尾重复一份总览。人物动态存在时，旧人物高光作为兼容回退，避免两份人物列表并列。
 
 HTML 报纸最大 1080px；680px 以下改为单列和正常字号，保留日期、起止范围及来源；旧历史 HTML 不批量改写。阅读页沿用既有 Vue／纸色，先显示总览，错误和旧稿状态持续可见，不以空栏补造模型结论。待确认项与标签须有来源，不按关键词推断“已完成”。

diff --git a/skills/wechat-group-daily/CHANGELOG.md b/skills/wechat-group-daily/CHANGELOG.md
@@ -1,5 +1,11 @@
 # 变更记录
 
+## 1.3.0-rc.8 — 2026-10-27
+
+- 按确认稿恢复「今日故事」开场：衬线大标题、首字下沉和完整导语；活跃统计、主要话题与待确认事项接在开场之后。
+- 去掉标题上方重复的群名／日期／时间行，日期与实际时间范围只在报头右侧显示一次；完整导语不再在故事线前重复。
+- 保留上下文搜索、群内名片、人物／话题／金句分析，以及 rc.7 的补报、跨午夜统计修复和全部许可证、免责声明及来源记录。更新沿用现有配置和历史。
+
 ## 1.3.0-rc.7 — 2026-10-27
 
 - 项目自有代码与文档采用 MIT，随包附许可证、使用边界与免责声明、第三方声明和逐文件来源记录；保留全部第三方版权。

diff --git a/skills/wechat-group-daily/SKILL.md b/skills/wechat-group-daily/SKILL.md
@@ -1,6 +1,6 @@
 ---
 name: wechat-group-daily
-version: 1.3.0-rc.7
+version: 1.3.0-rc.8
 description: Magic 微信群日报：在本人 Windows 电脑安装、更新或使用本地微信群日报。首次确认账号、包外目录与关注群；按群按日成稿并回看，更新时复用原配置和历史。
 ---
 
